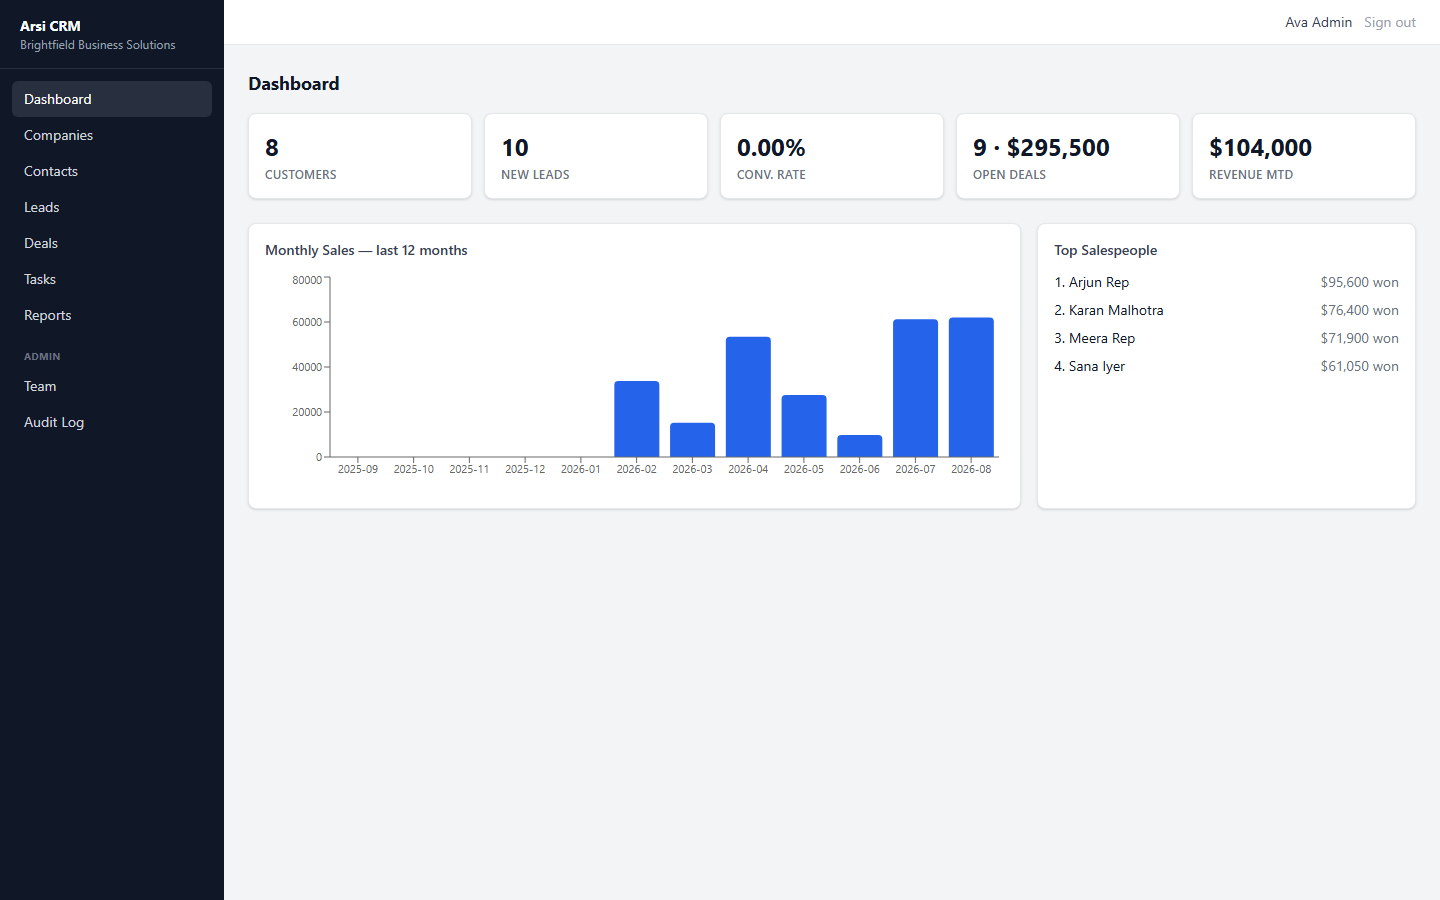
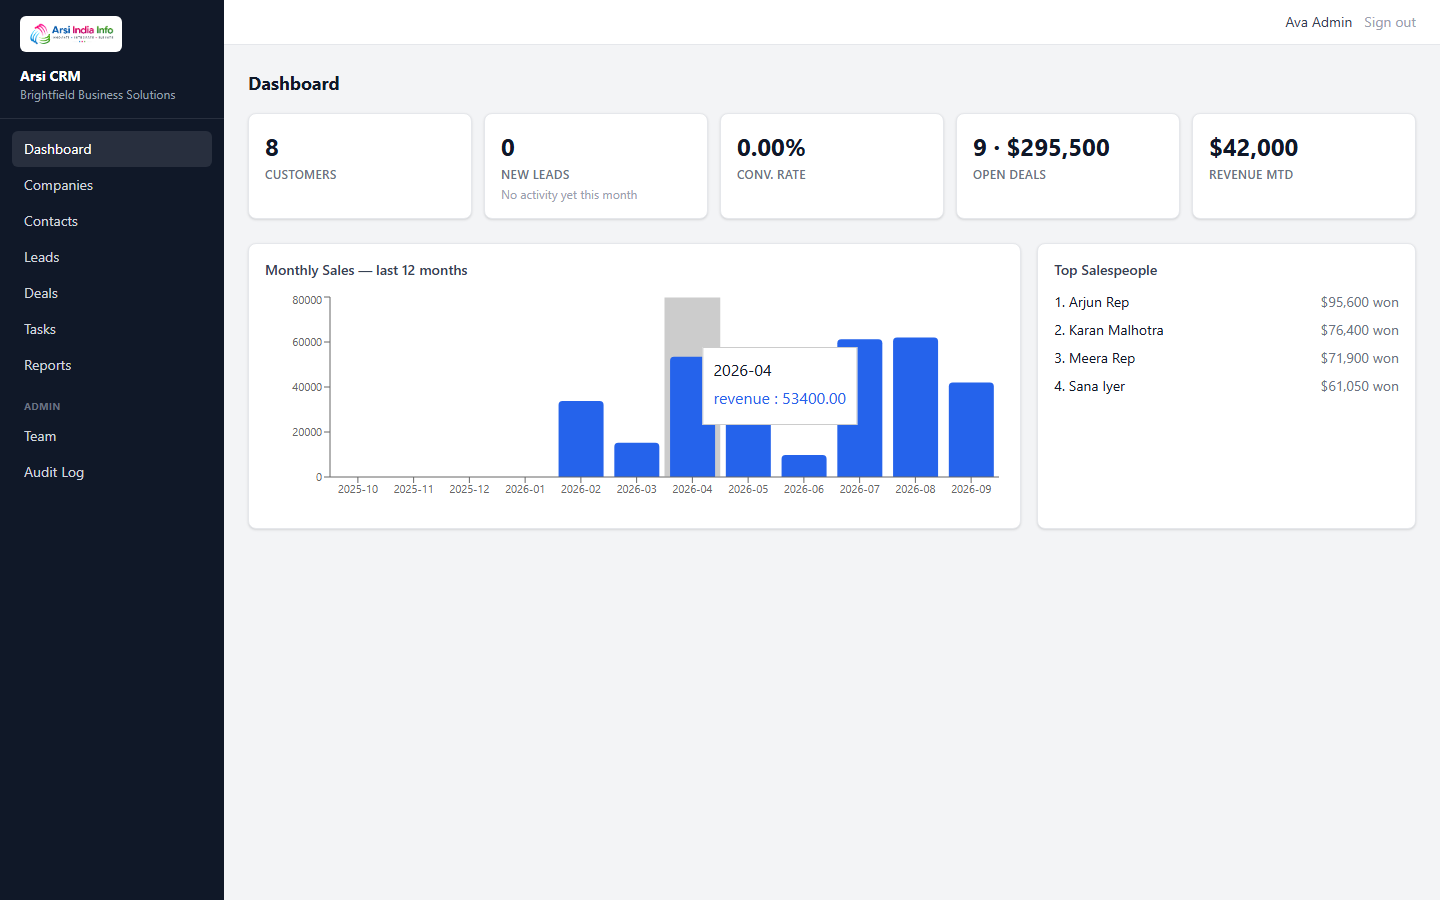
Tested & Finish

diff --git a/frontend/src/features/auth/LoginPage.tsx b/frontend/src/features/auth/LoginPage.tsx
@@ -1,10 +1,14 @@
-import { useState } from 'react'
+import { useRef, useState } from 'react'
 import { useNavigate } from 'react-router-dom'
 import { useForm } from 'react-hook-form'
 import { zodResolver } from '@hookform/resolvers/zod'
 import { z } from 'zod'
+import ReCAPTCHA from 'react-google-recaptcha'
 import { useAuth } from './AuthContext'
 import { ApiError } from '@/types/api'
+import arsiLogo from '@/assets/arsi-logo.png'
+
+const RECAPTCHA_SITE_KEY = import.meta.env.VITE_RECAPTCHA_SITE_KEY as string | undefined
 
 const schema = z.object({
   email: z.email('Enter a valid email address.'),
@@ -12,32 +16,56 @@ const schema = z.object({
 })
 type FormValues = z.infer<typeof schema>
 
+const DEMO_PASSWORD = 'Passw0rd!'
+const DEMO_ACCOUNTS = [
+  { role: 'Admin', email: 'admin@brightfield.test' },
+  { role: 'Sales Manager', email: 'priya.manager@brightfield.test' },
+  { role: 'Sales Manager', email: 'rohan.manager@brightfield.test' },
+  { role: 'Sales Rep', email: 'arjun.rep@brightfield.test' },
+  { role: 'Sales Rep', email: 'meera.rep@brightfield.test' },
+  { role: 'Sales Rep', email: 'karan.rep@brightfield.test' },
+  { role: 'Sales Rep', email: 'sana.rep@brightfield.test' },
+]
+
 export function LoginPage() {
   const { login } = useAuth()
   const navigate = useNavigate()
   const [serverError, setServerError] = useState<string | null>(null)
+  const [recaptchaToken, setRecaptchaToken] = useState<string | null>(null)
+  const recaptchaRef = useRef<ReCAPTCHA>(null)
 
   const {
     register,
     handleSubmit,
+    setValue,
     formState: { errors, isSubmitting },
   } = useForm<FormValues>({ resolver: zodResolver(schema) })
+
+  function fillDemoAccount(email: string) {
+    setValue('email', email, { shouldValidate: true })
+    setValue('password', DEMO_PASSWORD, { shouldValidate: true })
+  }
 
   async function onSubmit(values: FormValues) {
     setServerError(null)
     try {
-      await login(values.email, values.password)
+      await login(values.email, values.password, recaptchaToken ?? '')
       navigate('/dashboard', { replace: true })
     } catch (err) {
       setServerError(err instanceof ApiError ? err.message : 'Something went wrong. Please try again.')
+      recaptchaRef.current?.reset()
+      setRecaptchaToken(null)
     }
   }
 
   return (
-    <div className="flex min-h-screen items-center justify-center bg-gray-100 px-4">
-      <div className="w-full max-w-sm rounded-xl border border-gray-200 bg-white p-8 shadow-sm">
-        <h1 className="mb-1 text-xl font-bold text-gray-900">Arsi CRM</h1>
-        <p className="mb-6 text-sm text-gray-500">Sign in to Brightfield Business Solutions</p>
+    <div className="flex min-h-screen items-center justify-center bg-gray-100 px-4 py-10">
+      <div className="w-full max-w-md rounded-xl border border-gray-200 bg-white p-8 shadow-sm">
+        <div className="flex flex-col items-center text-center">
+          <img src={arsiLogo} alt="Arsi India Info" className="mb-4 h-8 w-auto" />
+          <h1 className="mb-1 text-xl font-bold text-gray-900">Arsi CRM</h1>
+          <p className="mb-6 text-sm text-gray-500">Sign in to Brightfield Business Solutions</p>
+        </div>
 
         <form onSubmit={handleSubmit(onSubmit)} className="space-y-4" noValidate>
           <div>
@@ -68,18 +96,52 @@ export function LoginPage() {
             {errors.password && <p className="mt-1 text-xs text-red-600">{errors.password.message}</p>}
           </div>
 
+          {RECAPTCHA_SITE_KEY && (
+            <div className="flex justify-center">
+              <ReCAPTCHA
+                ref={recaptchaRef}
+                sitekey={RECAPTCHA_SITE_KEY}
+                onChange={(token) => setRecaptchaToken(token)}
+                onExpired={() => setRecaptchaToken(null)}
+              />
+            </div>
+          )}
+
           {serverError && (
             <div className="rounded-md bg-red-50 px-3 py-2 text-sm text-red-700">{serverError}</div>
           )}
 
           <button
             type="submit"
-            disabled={isSubmitting}
+            disabled={isSubmitting || (!!RECAPTCHA_SITE_KEY && !recaptchaToken)}
             className="w-full rounded-md bg-blue-600 px-4 py-2 text-sm font-semibold text-white transition hover:bg-blue-700 disabled:opacity-60"
           >
             {isSubmitting ? 'Signing in…' : 'Sign in'}
           </button>
         </form>
+
+        <div className="mt-6 border-t border-gray-100 pt-4">
+          <p className="mb-2 text-xs font-semibold uppercase tracking-wide text-gray-400">
+            Demo project — sign in as
+          </p>
+          <ul className="space-y-1">
+            {DEMO_ACCOUNTS.map((account) => (
+              <li key={account.email}>
+                <button
+                  type="button"
+                  onClick={() => fillDemoAccount(account.email)}
+                  className="flex w-full items-center justify-between rounded-md px-2 py-1.5 text-left text-xs hover:bg-gray-50"
+                >
+                  <span className="text-gray-500">{account.role}</span>
+                  <span className="font-medium text-blue-600">{account.email}</span>
+                </button>
+              </li>
+            ))}
+          </ul>
+          <p className="mt-2 text-center text-xs text-gray-400">
+            Password for every account: <span className="font-mono">{DEMO_PASSWORD}</span>
+          </p>
+        </div>
       </div>
     </div>
   )

diff --git a/frontend/src/features/auth/AuthContext.tsx b/frontend/src/features/auth/AuthContext.tsx
@@ -6,7 +6,7 @@ import type { User } from '@/types/entities'
 interface AuthContextValue {
   user: User | null
   isLoading: boolean
-  login: (email: string, password: string) => Promise<void>
+  login: (email: string, password: string, recaptchaToken: string) => Promise<void>
   logout: () => Promise<void>
 }
 
@@ -29,8 +29,8 @@ export function AuthProvider({ children }: { children: ReactNode }) {
       .finally(() => setIsLoading(false))
   }, [])
 
-  const login = useCallback(async (email: string, password: string) => {
-    const res = await apiClient.post('/auth/login', { email, password })
+  const login = useCallback(async (email: string, password: string, recaptchaToken: string) => {
+    const res = await apiClient.post('/auth/login', { email, password, recaptchaToken })
     const { accessToken, refreshToken, user: loggedInUser } = res.data.data
     tokenStore.setTokens(accessToken, refreshToken)
     setUser(loggedInUser)

diff --git a/frontend/src/app/Layout.tsx b/frontend/src/app/Layout.tsx
@@ -1,5 +1,6 @@
 import { NavLink, Outlet } from 'react-router-dom'
 import { useAuth } from '@/features/auth/AuthContext'
+import arsiLogo from '@/assets/arsi-logo.png'
 
 const NAV_ITEMS = [
   { to: '/dashboard', label: 'Dashboard' },
@@ -23,6 +24,9 @@ export function Layout() {
     <div className="flex min-h-screen">
       <aside className="w-56 shrink-0 bg-gray-900 text-gray-200">
         <div className="border-b border-white/10 px-5 py-4">
+          <div className="mb-2 inline-block rounded-md bg-white px-2 py-1.5">
+            <img src={arsiLogo} alt="Arsi India Info" className="h-6 w-auto" />
+          </div>
           <div className="text-sm font-bold text-white">Arsi CRM</div>
           <div className="text-xs text-gray-400">Brightfield Business Solutions</div>
         </div>

diff --git a/frontend/index.html b/frontend/index.html
@@ -4,7 +4,7 @@
     <meta charset="UTF-8" />
     <link rel="icon" type="image/svg+xml" href="/favicon.svg" />
     <meta name="viewport" content="width=device-width, initial-scale=1.0" />
-    <title>frontend</title>
+    <title>Arsi CRM</title>
   </head>
   <body>
     <div id="root"></div>

diff --git a/backend/app/Filters/RecaptchaFilter.php b/backend/app/Filters/RecaptchaFilter.php
@@ -1,0 +1,74 @@
+<?php
+
+namespace App\Filters;
+
+use App\Exceptions\ApiException;
+use App\Libraries\ExceptionResponder;
+use CodeIgniter\Filters\FilterInterface;
+use CodeIgniter\HTTP\RequestInterface;
+use CodeIgniter\HTTP\ResponseInterface;
+use Config\Services;
+use Throwable;
+
+/**
+ * Verifies a Google reCAPTCHA v2 token on /auth/login before the controller
+ * runs, guarding against scripted/bot login attempts (§15). Skipped under
+ * automated tests — verification is a live call to Google's siteverify API,
+ * which feature tests must not depend on.
+ */
+class RecaptchaFilter implements FilterInterface
+{
+    public function before(RequestInterface $request, $arguments = null)
+    {
+        if (ENVIRONMENT === 'testing') {
+            return null;
+        }
+
+        $secret = env('RECAPTCHA_SECRET_KEY');
+
+        if (! $secret) {
+            return null;
+        }
+
+        $body  = json_decode($request->getBody() ?: '{}', true) ?: [];
+        $token = $body['recaptchaToken'] ?? null;
+
+        if (! is_string($token) || $token === '') {
+            return ExceptionResponder::toResponse(
+                new ApiException('reCAPTCHA verification is required.', 400, 'RECAPTCHA_REQUIRED'),
+                Services::response(),
+            );
+        }
+
+        try {
+            $response = Services::curlrequest()->post('https://www.google.com/recaptcha/api/siteverify', [
+                'form_params' => [
+                    'secret'   => $secret,
+                    'response' => $token,
+                    'remoteip' => $request->getIPAddress(),
+                ],
+            ]);
+
+            $result = json_decode((string) $response->getBody(), true) ?: [];
+        } catch (Throwable) {
+            return ExceptionResponder::toResponse(
+                new ApiException('Could not verify reCAPTCHA right now. Please try again.', 503, 'RECAPTCHA_UNAVAILABLE'),
+                Services::response(),
+            );
+        }
+
+        if (($result['success'] ?? false) !== true) {
+            return ExceptionResponder::toResponse(
+                new ApiException('reCAPTCHA verification failed. Please try again.', 400, 'RECAPTCHA_FAILED'),
+                Services::response(),
+            );
+        }
+
+        return null;
+    }
+
+    public function after(RequestInterface $request, ResponseInterface $response, $arguments = null)
+    {
+        return $response;
+    }
+}

diff --git a/backend/app/Controllers/AuthController.php b/backend/app/Controllers/AuthController.php
@@ -20,17 +20,19 @@ class AuthController extends BaseApiController
         summary: 'Authenticate with email + password',
         tags: ['Auth'],
         requestBody: new OA\RequestBody(required: true, content: new OA\JsonContent(
-            required: ['email', 'password'],
+            required: ['email', 'password', 'recaptchaToken'],
             properties: [
                 new OA\Property(property: 'email', type: 'string', format: 'email'),
                 new OA\Property(property: 'password', type: 'string'),
+                new OA\Property(property: 'recaptchaToken', type: 'string', description: 'Google reCAPTCHA v2 response token'),
             ],
         )),
         responses: [
             new OA\Response(response: 200, description: 'Access/refresh tokens + user profile'),
-            new OA\Response(response: 400, description: 'VALIDATION_ERROR', content: new OA\JsonContent(ref: '#/components/schemas/ErrorEnvelope')),
+            new OA\Response(response: 400, description: 'VALIDATION_ERROR, RECAPTCHA_REQUIRED, or RECAPTCHA_FAILED', content: new OA\JsonContent(ref: '#/components/schemas/ErrorEnvelope')),
             new OA\Response(response: 401, description: 'UNAUTHORIZED — invalid credentials or disabled account', content: new OA\JsonContent(ref: '#/components/schemas/ErrorEnvelope')),
             new OA\Response(response: 429, description: 'RATE_LIMITED — 10/min/IP', content: new OA\JsonContent(ref: '#/components/schemas/ErrorEnvelope')),
+            new OA\Response(response: 503, description: 'RECAPTCHA_UNAVAILABLE — could not reach Google to verify', content: new OA\JsonContent(ref: '#/components/schemas/ErrorEnvelope')),
         ],
     )]
     public function login()

diff --git a/backend/app/Config/Filters.php b/backend/app/Config/Filters.php
@@ -5,6 +5,7 @@ namespace Config;
 use App\Filters\JwtAuthFilter;
 use App\Filters\OwnershipScopeFilter;
 use App\Filters\RateLimitFilter;
+use App\Filters\RecaptchaFilter;
 use App\Filters\RoleFilter;
 use CodeIgniter\Config\Filters as BaseFilters;
 use CodeIgniter\Filters\Cors;
@@ -42,6 +43,7 @@ class Filters extends BaseFilters
         'ownershipScope' => OwnershipScopeFilter::class,
         'role'          => RoleFilter::class,
         'rateLimit'     => RateLimitFilter::class,
+        'recaptcha'     => RecaptchaFilter::class,
     ];
 
     /**

diff --git a/backend/app/Config/Routes.php b/backend/app/Config/Routes.php
@@ -6,7 +6,7 @@ use CodeIgniter\Router\RouteCollection;
 
 // Public — no auth required (§12.1)
 $routes->group('api/v1', ['namespace' => 'App\Controllers'], static function ($routes): void {
-    $routes->post('auth/login', 'AuthController::login', ['filter' => 'rateLimit:10']);
+    $routes->post('auth/login', 'AuthController::login', ['filter' => ['rateLimit:10', 'recaptcha']]);
     $routes->post('auth/refresh', 'AuthController::refresh');
 });
 

diff --git a/docs/openapi.md b/docs/openapi.md
@@ -44,4 +44,5 @@ appear verbatim in the generated spec's per-endpoint response descriptions
 (`VALIDATION_ERROR`, `UNAUTHORIZED`, `FORBIDDEN_ROLE`, `*_NOT_FOUND`,
 `DUPLICATE_NAME`, `ALREADY_CONVERTED`, `NOT_QUALIFIED`,
 `INVALID_TRANSITION`, `LOST_REASON_REQUIRED`, `RATE_LIMITED`,
+`RECAPTCHA_REQUIRED`, `RECAPTCHA_FAILED`, `RECAPTCHA_UNAVAILABLE`,
 `INTERNAL_ERROR`).

diff --git a/README.md b/README.md
@@ -1,3 +1,5 @@
+![Arsi India Info](./docs/arsi-logo.png)
+
 # React + PHP SaaS CRM
 
 A small-business CRM — companies, contacts, a lead pipeline with real
